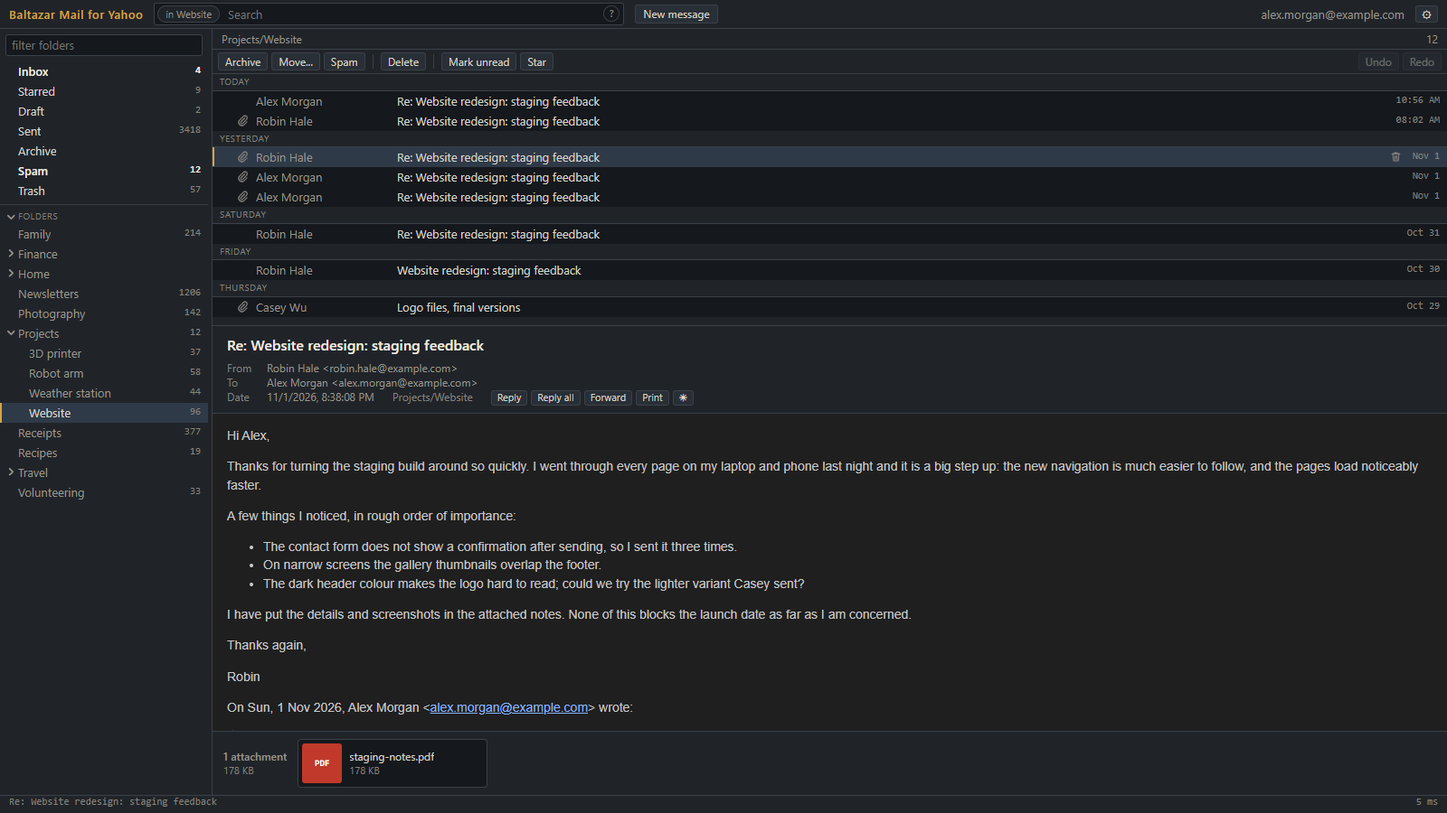
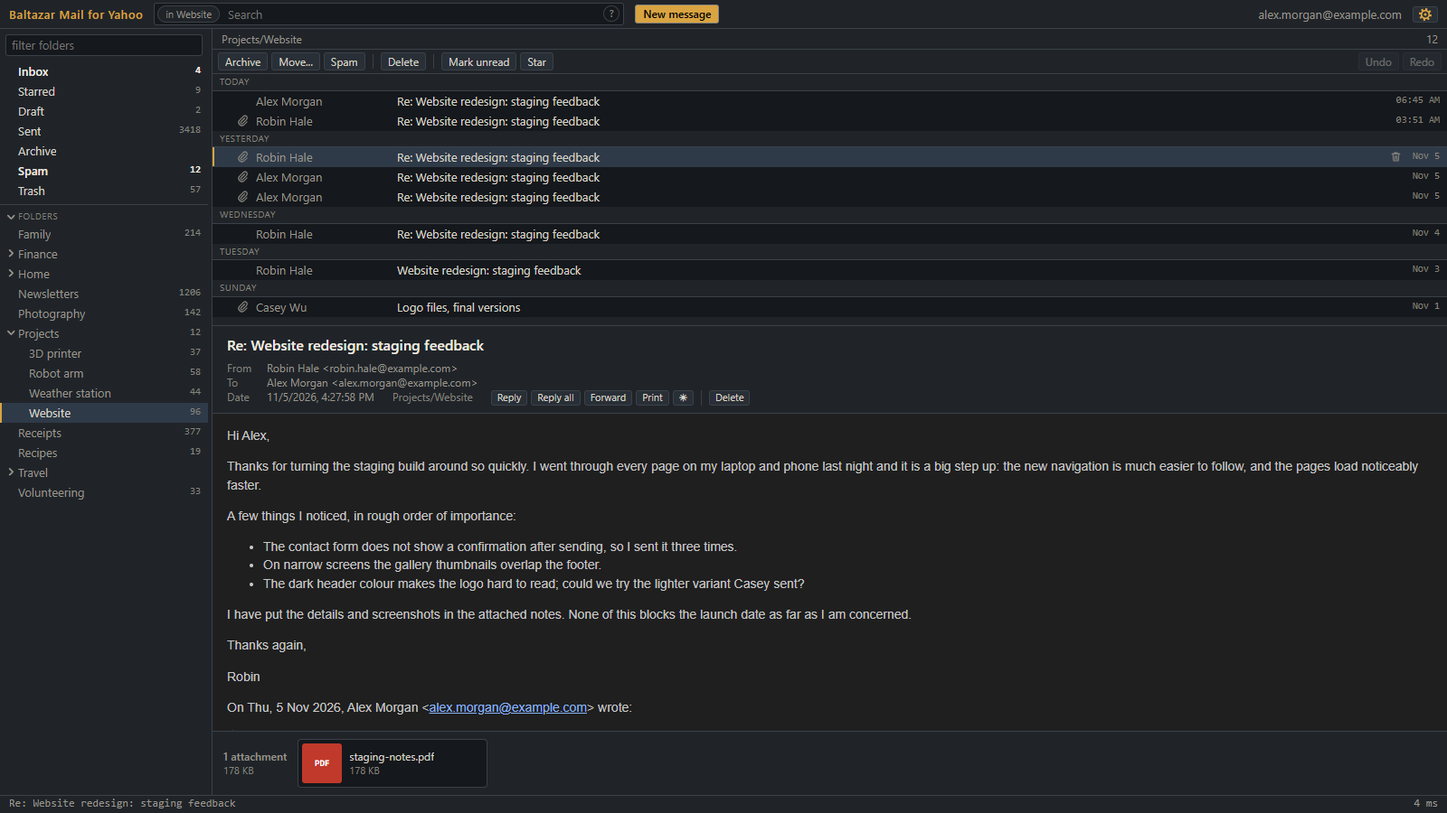
Regenerate the screenshots and store images and correct the documentation
The images show the new top bar, cog and status line. The docs now say that Starred and cross-folder search matches leave out Spam and Trash, that spreadsheets of every kind open locally, that the release check runs for any Load unpacked copy, which stored values the storage permission covers, and, for the Gmail edition, that only a copy built with a client id can sign in and that message images come from their senders.

diff --git a/README.md b/README.md
@@ -13,13 +13,13 @@ Baltazar Mail is an independent project by [Baltazar Studios](https://baltazarst
 
 ## Features
 
-- **Reading:** three-column or stacked layout with resizable panes, sixteen palettes, eight light and eight dark in a range of hues and mostly in light and dark pairs (two of them plain black and white), a contrast slider, one text size setting that scales the whole interface and the message, a zoom for the message pane alone, read or written, shown for a moment over the pane (+, - and 0, Ctrl+= / Ctrl+- / Ctrl+0 in the composer, or Ctrl+wheel over it), a row height setting, a Starred view across all folders, and remote images loaded automatically except in Spam and Trash. In a dark theme messages are darkened to match, keeping their colours' hues and leaving images alone; the ☀ button in the message header shows them in their original colours instead.
+- **Reading:** three-column or stacked layout with resizable panes, sixteen palettes, eight light and eight dark in a range of hues and mostly in light and dark pairs (two of them plain black and white), a contrast slider, one text size setting that scales the whole interface and the message, a zoom for the message pane alone, read or written, shown for a moment over the pane (+, - and 0, Ctrl+= / Ctrl+- / Ctrl+0 in the composer, or Ctrl+wheel over it), a row height setting, a Starred view across all folders but Spam and Trash, and remote images loaded automatically except in Spam and Trash. In a dark theme messages are darkened to match, keeping their colours' hues and leaving images alone; the ☀ button in the message header shows them in their original colours instead.
 - **Mailbox actions:** read/unread, star, archive, move, delete, spam and not spam, on one message or a selection (click, Shift-click for a range, Ctrl-click for single rows), with multi-level undo and redo. A trash icon beside each row's date deletes it without opening it. The reader has its own Delete button, for the open message alone; for a message in Trash it reads Undelete and moves it to Inbox without asking. Right-click a message for these and for Reply, Reply all, Forward and Find all from, with each shortcut shown.
 - **Folders:** right-click a folder to create a subfolder, rename, move or delete it (only when it and its subfolders are empty), or mark it all read; right-click Trash or Spam to empty it. The Folders heading above your own folders creates top-level folders and opens or closes the first level of subfolders; a double click opens or closes one folder. Subfolders of Inbox are shown under Inbox, as Yahoo files them.
-- **Search:** scoped to the open folder and its subfolders, with matches in other folders listed below a divider. Words must all match; `AND`, `OR`, `NOT` (or a leading `-`), parentheses, quoted phrases and the fields `from:` `to:` `subject:` `has:attachment` `is:starred` `is:read` `is:unread` `after:` `before:` refine it. The `?` in the search box explains the syntax.
+- **Search:** scoped to the open folder and its subfolders, with matches in other folders (Spam and Trash aside) listed below a divider. Words must all match; `AND`, `OR`, `NOT` (or a leading `-`), parentheses, quoted phrases and the fields `from:` `to:` `subject:` `has:attachment` `is:starred` `is:read` `is:unread` `after:` `before:` refine it. The `?` in the search box explains the syntax.
 - **Writing:** new message, reply, reply all and forward (with the original's attachments), drafts saved automatically, rich-text or plain-text editing with fonts, sizes and colours, pasted or dropped inline images, attachments, and undo-send.
 - **Address book:** built from your own Inbox and Sent headers, with autocomplete ranked by how recently you wrote to or heard from each person. Automated senders you never wrote to (noreply, notifications, bulk-mail domains) are left out of suggestions. Settings › Address book lists it with a filter and hide/restore, also in bulk.
-- **Attachments:** listed under the message and previewed in place: PDF with selectable text and zoom, Word, Excel and other spreadsheets, PowerPoint and older Office formats through Yahoo's converter, images, text and code, CSV, HTML, audio, video and ZIP listings. Anything else up to 100 KB can be read as text, or as a hex dump when it is binary.
+- **Attachments:** listed under the message and previewed in place: PDF with selectable text and zoom, Word, Excel and other spreadsheets, PowerPoint, older Word, RTF and OpenDocument text and slides through Yahoo's converter, images, text and code, CSV, HTML, audio, video and ZIP listings. Anything else up to 100 KB can be read as text, or as a hex dump when it is binary.
 - **Also:** a red dot on the tab icon and toolbar button when new mail arrives while the tab is in the background, or arrived while the browser was closed and the tab opens in the background (handy for a pinned tab), contact cards (right-click a message › About sender..., or hover an address in the message header) with the person's recent messages, each opening in its folder, printing, anything that failed shown in a bar under the top bar (with details to copy for a bug report), and all settings kept between sessions.
 
 Attachments open in place, here a two-page PDF with selectable text and zoom; photos, Office documents and spreadsheets open the same way:
@@ -38,7 +38,7 @@ All names, addresses and messages in these screenshots are invented; `node tools
 
 ### Gmail: what differs
 
-The Gmail edition has the same interface and the same features, with these differences that come from Gmail itself: Gmail's labels are the folders (a message with no label is in All Mail, and Archive moves it there); a move takes the message out of the folder it is shown in and keeps its other labels, also in Trash and Spam, and undo puts back exactly what the move changed; Spam and Trash are Gmail's; Mark all read, Empty Trash and Empty Spam work on the label; renaming a folder renames the labels nested under it. There is no document converter, so PowerPoint and older Office formats offer Download instead of a preview (PDF, Word, Excel, images, text and ZIP preview as before). Images in messages load straight from the senders' servers when the setting allows, since Gmail's API hands over the message as the sender wrote it (see [PRIVACY.md](PRIVACY.md)). Gmail's API has a quota per user (by default 6,000 units a minute, where a list of 100 messages costs about 500), so the extension paces its requests: the first address-book build reads the newest 2,000 messages of Inbox and Sent slowly in the background, in about eight minutes, leaving room for browsing. How the adapter maps Gmail onto the client is in `docs/gmail-api.md`.
+The Gmail edition has the same interface and the same features, with these differences that come from Gmail itself: Gmail's labels are the folders (a message with no label is in All Mail, and Archive moves it there); a move takes the message out of the folder it is shown in and keeps its other labels, also in Trash and Spam, and undo puts back exactly what the move changed; Spam and Trash are Gmail's; Mark all read, Empty Trash and Empty Spam work on the label; renaming a folder renames the labels nested under it. There is no document converter, so PowerPoint, Keynote, older Word, RTF and OpenDocument text and slides offer Download (and, up to 100 KB, a text or hex view) instead of a preview (PDF, Word .docx, spreadsheets of every kind, images, text and ZIP preview as before). Images in messages load straight from the senders' servers when the setting allows, since Gmail's API hands over the message as the sender wrote it (see [PRIVACY.md](PRIVACY.md)). Gmail's API has a quota per user (by default 6,000 units a minute, where a list of 100 messages costs about 500), so the extension paces its requests: the first address-book build reads the newest 2,000 messages of each of Inbox and Sent slowly in the background, in about eight minutes, leaving room for browsing. How the adapter maps Gmail onto the client is in `docs/gmail-api.md`.
 
 ## Install
 
@@ -47,16 +47,16 @@ Neither edition is in a browser store; both install from a release ZIP in Chrome
 1. Download `baltazar-mail-yahoo-<version>.zip` (Yahoo) or `baltazar-mail-gmail-<version>.zip` (Gmail) from the [latest release](https://github.com/gdevic/baltazar-mail-2/releases/latest) and unzip it into a folder you will keep; it contains one folder, `baltazar-mail-yahoo` or `baltazar-mail-gmail`.
 2. Open `chrome://extensions` (or `edge://extensions`) and turn on Developer mode.
 3. Click Load unpacked and select that folder.
-4. Yahoo: be signed in to mail.yahoo.com in the same browser profile, then click the Baltazar Mail for Yahoo toolbar icon. Gmail: click the Baltazar Mail for Gmail toolbar icon and press Sign in with Google; Google asks for the account and the permission once, and the extension renews the sign-in silently afterwards, for that account only (Sign out is in Settings; it withdraws the permission and clears the address book).
+4. Yahoo: be signed in to mail.yahoo.com in the same browser profile, then click the Baltazar Mail for Yahoo toolbar icon. Gmail: click the Baltazar Mail for Gmail toolbar icon and press Sign in with Google (for now only a copy you build yourself can sign in, see below); Google asks for the account and the permission once, and the extension renews the sign-in silently afterwards, for that account only (Sign out is in Settings; it withdraws the permission and clears the address book).
 
 A copy installed this way says in Settings when a newer release is out. To update, put the new release's files into the same folder, replacing the old ones, and click Reload on the extensions page. Windows' Extract All offers a new folder by default, so point it at the folder that contains `baltazar-mail-yahoo` (or `baltazar-mail-gmail`) and confirm replacing the files; macOS's Archive Utility never replaces files, so use `unzip -o baltazar-mail-yahoo-<version>.zip -d <that folder>` in Terminal. Loading the new release from a different folder, or removing the extension, would start over without its settings and address book. From a clone of this repository, run `node tools/build.js` and load `dist/baltazar-mail-yahoo` or `dist/baltazar-mail-gmail` the same way; after a change, build again and click Reload on the extension's card.
 
-**Gmail and Google's sign-in.** The Gmail edition's sign-in runs through an OAuth client registered with Google. A release ZIP does not carry a client id yet, so for now only a copy you build yourself can sign in; and while Google has not verified the app, its consent screen shows an "unverified app" warning and only accounts listed as test users can sign in; `docs/google-setup.md` explains how to register a client of your own for a copy you build or load yourself, and what store publication needs.
+**Gmail and Google's sign-in.** The Gmail edition's sign-in runs through an OAuth client registered with Google. A release ZIP does not carry a client id yet, so for now only a copy you build yourself can sign in; and while Google has not verified the app, its consent screen shows an "unverified app" warning and only accounts listed as test users can sign in; `docs/google-setup.md` explains how to register a client of your own for a copy you build yourself, and what store publication needs.
 
 **Microsoft Edge: keep the tab awake.** Baltazar Mail asks the browser not to discard its tab, which keeps Chrome's Memory Saver from unloading it. Edge also puts background tabs to sleep, pinned ones included, and a sleeping tab cannot check for new mail until you click it. To keep Baltazar Mail checking in Edge (and the new-mail dot working), add it to Edge's exception list once:
 
 1. Open `edge://settings/system` and find **Always keep these sites active** (older versions: "Never put these sites to sleep"). Click **Add site**.
-2. Enter `chrome-extension://<ID>/`, with the `chrome-` prefix and the trailing slash, where `<ID>` is your copy's 32-letter extension ID. Edge derives it from the folder you loaded, so it differs on each computer or folder (it stays the same when you unzip updates over the same folder). The ID is in the address bar of the Baltazar Mail tab, after `chrome-extension://`, and on `edge://extensions` with Developer mode turned on.
+2. Enter `chrome-extension://<ID>/`, with the `chrome-` prefix and the trailing slash, where `<ID>` is your copy's 32-letter extension ID. For a release ZIP, Edge derives it from the folder you loaded, so it differs on each computer or folder (it stays the same when you unzip updates over the same folder); a copy you build with a `key` in `local.json` keeps the id that key pins. The ID is in the address bar of the Baltazar Mail tab, after `chrome-extension://`, and on `edge://extensions` with Developer mode turned on.
 3. To confirm, open `edge://discards`: the Baltazar Mail tab should show that it cannot sleep.
 
 Extensions cannot add themselves to this list.
@@ -69,7 +69,7 @@ To publish a release, set the version in `VERSION`, commit, and run the Release 
 
 ## Security and privacy
 
-Each extension talks only to its mail service (Yahoo, or Google's Gmail API and sign-in), with one exception: a copy loaded with Load unpacked (a release ZIP or a clone) asks GitHub once a day whether a newer release exists (an hour later after a failed check), sending no cookies and nothing about you or your mail. They have no server, analytics or telemetry, and parse attachments in a sandbox with no access to your session. Details are in [SECURITY.md](SECURITY.md), including how to report a vulnerability, and in [PRIVACY.md](PRIVACY.md), including every host contacted, everything stored and every permission.
+Each extension talks only to its mail service (Yahoo, or Google's Gmail API and sign-in), with two exceptions: a copy loaded with Load unpacked (a release ZIP or a clone) asks GitHub once a day whether a newer release exists (an hour later after a failed check), sending no cookies and nothing about you or your mail; and in the Gmail edition, images in messages load from their senders' servers when the setting allows (by default everywhere but Spam and Trash). They have no server, analytics or telemetry, and parse attachments in a sandbox with no access to your session. Details are in [SECURITY.md](SECURITY.md), including how to report a vulnerability, and in [PRIVACY.md](PRIVACY.md), including every host contacted, everything stored and every permission.
 
 ## License
 

diff --git a/store/LISTING-gmail.md b/store/LISTING-gmail.md
@@ -1,6 +1,6 @@
 # Baltazar Mail for Gmail: submission kit
 
-Everything to paste into a store listing for Baltazar Mail for Gmail. Neither edition of this project is published in a store; this page is ready for when one is. Upload `baltazar-mail-gmail-<version>-store.zip` from GitHub Releases as the package: the built extension with `manifest.json` at the top level. Before a store submission, Google's OAuth verification for the restricted Gmail scope must be complete (see `docs/google-setup.md`): without it, the consent screen warns and only test users can sign in, which a store reviewer cannot.
+Everything to paste into a store listing for Baltazar Mail for Gmail. Neither edition of this project is published in a store; this page is ready for when one is. The package is the built extension with `manifest.json` at the top level; build it with the project's client id in `gmail/local.json` (`node tools/build.js gmail --store`, then zip the contents of `dist/baltazar-mail-gmail`), since the release's `-store.zip` carries only a placeholder client id. Before a store submission, Google's OAuth verification for the restricted Gmail scope must be complete (see `docs/google-setup.md`): without it, the consent screen warns and only test users can sign in, which a store reviewer cannot.
 
 ## Account
 
@@ -26,7 +26,7 @@ Single purpose description:
 Permission justifications:
 
 - `identity`: Opens Google's own sign-in page in a window when the user clicks Sign in with Google, and receives the access token Google answers with. The extension never sees a password. The token is renewed silently while the browser keeps the user's Google session, and Sign out in Settings revokes it.
-- `storage`: Keeps the user's settings (layout, theme and contrast, sizes, fonts, intervals) and the time of the last release check on this computer, and, for the browser session only, the Google access token, so the extension does not ask Google for every request, and a message being printed, until the print page has read it.
+- `storage`: Keeps the user's settings (layout, theme and contrast, sizes, fonts, intervals), the time of the last release check, the format of drafts saved here, when the mail tab was last looked at (for the new-mail dot) and, until Sign out, the address of the Google account signed in, so a silent renewal asks for that account only; and, for the browser session only, the Google access token, so the extension does not ask Google for every request, and a message being printed, until the print page has read it.
 - Host permission `https://gmail.googleapis.com/*`: All mailbox operations (labels, message lists, search, reading, attachments, moving, deleting, drafts and sending) go to the Gmail API on this host, with the token from the user's sign-in.
 - Host permission `https://oauth2.googleapis.com/*`: Revoking the token when the user signs out.
 - OAuth scope `https://mail.google.com/`: The extension reads, writes and sends mail, and permanently deletes messages when the user empties Trash or Spam or deletes a message already in Trash; the narrower Gmail scopes do not allow permanent deletion.
@@ -37,7 +37,7 @@ Data usage, what the extension handles (recommended declarations; all of it stay
 
 - Personal communications: email messages and attachments, fetched from Gmail when the user opens them and shown on screen; not stored.
 - Personally identifiable information: names and email addresses from the user's own Inbox and Sent headers, kept in a local address book for suggestions while writing.
-- Authentication information: the Google access token, kept in the browser's session storage and cleared when the browser closes.
+- Authentication information: the Google access token, kept in the browser's session storage and cleared when the browser closes, and the address of the Google account signed in, kept in local storage until Sign out.
 
 Certify: data is not sold, not used for purposes unrelated to the single purpose, and not used for creditworthiness or lending. No analytics, telemetry or advertising.
 
@@ -55,11 +55,11 @@ Description:
 
 > Baltazar Mail for Gmail is a fast, clean, ad-free way to read and write your Gmail. It opens in its own tab; click Sign in with Google once, and Google's own page asks which account and what permission, then the extension keeps you signed in while the browser does.
 >
-> Reading: a three-column or stacked layout with resizable panes, sixteen light and dark palettes in different hues with a contrast slider, an adjustable text size, and a dark reading pane that darkens messages to match while keeping their hues and leaving images untouched. Your labels are the folders, nested as you named them, and a Starred view collects starred mail from every one of them.
+> Reading: a three-column or stacked layout with resizable panes, sixteen light and dark palettes in different hues with a contrast slider, an adjustable text size, and a dark reading pane that darkens messages to match while keeping their hues and leaving images untouched. Your labels are the folders, nested as you named them, and a Starred view collects starred mail from every one of them but Spam and Trash.
 >
 > Mailbox: mark messages read or unread, star, archive, move, delete or report them as spam, one at a time or as a selection, with multi-level undo and redo. Labels can be created, renamed, moved and nested, empty ones deleted, and Trash and Spam emptied, all from a right-click menu.
 >
-> Search: limited to the open label and the ones nested under it, with matches elsewhere listed below, and the operators you know from Gmail to narrow it down.
+> Search: limited to the open label and the ones nested under it, with matches elsewhere listed below, and simple operators written as in Gmail (from:, to:, subject:, has:attachment, is:starred, dates) to narrow it down.
 >
 > Writing: new messages, replies that keep their thread, and forwards that keep the original's attachments, rich or plain text, inline images, automatic drafts and undo-send. Address suggestions come from your own Inbox and Sent, with automated senders left out.
 >
@@ -71,7 +71,7 @@ Description:
 
 Logo, promotional tiles and screenshots: to be regenerated for the Gmail edition (`tools/screenshots.js` draws the Yahoo edition).
 
-Search terms (7 terms, 15 words): gmail; gmail client; email client; webmail; ad-free email; dark mode email; pdf attachment viewer
+Search terms (7 terms, 14 words): gmail; gmail client; email client; webmail; ad-free email; dark mode email; pdf attachment viewer
 
 ## Notes for certification
 
@@ -79,6 +79,6 @@ Search terms (7 terms, 15 words): gmail; gmail client; email client; webmail; ad
 >
 > How it works: the extension uses the Gmail API (gmail.googleapis.com) with an OAuth 2.0 token obtained through chrome.identity's web auth flow from Google's own sign-in page; it never sees or stores the password. The token lives in session storage and is renewed silently; the extension never opens Google's window except when the sign-in button is clicked.
 >
-> No remote code. No analytics or third-party services: an install from this store talks only to Google. (The GitHub release build, installed with Load unpacked, also checks GitHub once a day for a newer version; that check is switched off for store installs.) Images embedded in messages load from the senders' own servers when the user's setting allows, which the privacy policy explains.
+> No remote code. No analytics or third-party services: an install from this store talks only to Google, apart from images in messages, which load from the senders' own servers when the user's setting allows, as the privacy policy explains. (The GitHub release build, installed with Load unpacked, also checks GitHub once a day for a newer version; that check is switched off for store installs.)
 >
 > Attachments are parsed by bundled open-source libraries (PDF.js, docx-preview, SheetJS, JSZip, DOMPurify) inside a manifest sandbox page with an opaque origin and no extension APIs. Source, security notes and a privacy policy: https://github.com/gdevic/baltazar-mail-2

diff --git a/store/LISTING-yahoo.md b/store/LISTING-yahoo.md
@@ -25,7 +25,7 @@ Single purpose description:
 
 Permission justifications:
 
-- `storage`: Keeps the user's settings (layout, theme and contrast, sizes, fonts, intervals) and the time of the last release check on this computer, and, for the browser session only, the Yahoo session values that Yahoo's own web page uses, so the extension does not reload Yahoo's page for every request, and a message being printed, until the print page has read it.
+- `storage`: Keeps the user's settings (layout, theme and contrast, sizes, fonts, intervals) the time of the last release check, the format of drafts saved here and when the mail tab was last looked at (for the new-mail dot) on this computer, and, for the browser session only, the Yahoo session values that Yahoo's own web page uses, so the extension does not reload Yahoo's page for every request, and a message being printed, until the print page has read it.
 - `declarativeNetRequest`: Yahoo's mail servers accept requests only when they come from mail.yahoo.com. One rule, registered by the extension at start-up and shipped in its code, sets the Origin and Referer headers to https://mail.yahoo.com on the extension's own requests to Yahoo's mail hosts. The rule is limited to requests the extension itself initiates (initiatorDomains is the extension's own ID), to XHR/fetch requests only, and to mail.yahoo.com and its subdomains. It changes nothing on any web page the user visits.
 - Host permission `https://mail.yahoo.com/*`: All mailbox operations (folders, message lists, search, reading, moving, deleting, drafts and sending) go to Yahoo's mail API on this host, with the user's existing Yahoo sign-in.
 - Host permission `https://*.mail.yahoo.com/*`: Yahoo serves message source (used to show attachments), attachment thumbnails and images embedded in messages from subdomains of mail.yahoo.com (apis.mail.yahoo.com, cloud-apis.mail.yahoo.com).
@@ -54,7 +54,7 @@ Description:
 
 > Baltazar Mail for Yahoo is a fast, clean, ad-free way to read and write your Yahoo Mail. It opens in its own tab and uses the Yahoo sign-in you already have in the browser, so there is nothing to set up: sign in to mail.yahoo.com once, then click the Baltazar Mail button.
 >
-> Reading: a three-column or stacked layout with resizable panes, sixteen light and dark palettes in different hues with a contrast slider, an adjustable text size, and a dark reading pane that darkens messages to match while keeping their hues and leaving images untouched. A Starred view collects flagged mail from every folder.
+> Reading: a three-column or stacked layout with resizable panes, sixteen light and dark palettes in different hues with a contrast slider, an adjustable text size, and a dark reading pane that darkens messages to match while keeping their hues and leaving images untouched. A Starred view collects flagged mail from every folder but Spam and Trash.
 >
 > Mailbox: mark messages read or unread, star, archive, move, delete or report them as spam, one at a time or as a selection, with multi-level undo and redo. Folders can be created, renamed, moved and nested, empty ones deleted, and Trash and Spam emptied, all from a right-click menu.
 >
@@ -82,7 +82,7 @@ Search terms (7 terms, 16 words): yahoo mail; yahoo mail client; email client; w
 
 > No test account is included. Baltazar Mail for Yahoo works with any Yahoo Mail account, and the reviewer's own or any existing test account can be used. A shared account cannot be provided reliably: Yahoo requires every new account to be verified with a personal mobile number (virtual numbers are rejected), and it challenges sign-ins from an unfamiliar computer with a code sent to that phone, so a reviewer could be locked out of a shared account. If access is still needed, please ask through Partner Center and it will be arranged promptly.
 >
-> To test: in the same browser profile, sign in to https://mail.yahoo.com with any Yahoo account, then click the Baltazar Mail for Yahoo toolbar button. The extension opens its own tab with the mailbox. Things to try: open a folder and a message, search (the ? next to the search box explains the syntax), open an attachment from the strip under a message, write a message to yourself with New message, and open Settings with the gear button. Nothing is changed in the account unless the reviewer moves, deletes or sends mail.
+> To test: in the same browser profile, sign in to https://mail.yahoo.com with any Yahoo account, then click the Baltazar Mail for Yahoo toolbar button. The extension opens its own tab with the mailbox. Things to try: open a folder and a message, search (the ? at the right end of the search box explains the syntax), open an attachment from the strip under a message, write a message to yourself with New message, and open Settings with the gear button. Nothing is changed in the account unless the reviewer moves, deletes or sends mail.
 >
 > How it works: the extension calls the same web API that Yahoo's own mail page uses, with the user's existing Yahoo sign-in; it never sees or stores the password. Yahoo's servers accept those calls only when they come from mail.yahoo.com, so a single declarativeNetRequest session rule sets Origin and Referer to https://mail.yahoo.com, limited to requests initiated by this extension (initiatorDomains), XHR/fetch only, on mail.yahoo.com and its subdomains.
 >

diff --git a/PRIVACY.md b/PRIVACY.md
@@ -1,14 +1,14 @@
 # Privacy
 
-Baltazar Mail (for Yahoo Mail) and Baltazar Mail for Gmail are browser extensions that show your mail. They have no server, no account of their own, no analytics and no telemetry. Their author receives nothing about you or your mail. The two extensions share their code and differ only in the mail service they talk to; this page covers both, and says where they differ.
+Baltazar Mail for Yahoo and Baltazar Mail for Gmail are browser extensions that show your mail. They have no server, no account of their own, no analytics and no telemetry. Their author receives nothing about you or your mail. The two extensions share their code and differ only in the mail service they talk to; this page covers both, and says where they differ.
 
 ## Where your data goes
 
-Each extension talks to its mail service and, when installed from a release ZIP, to GitHub for one thing:
+Each extension talks to its mail service and, when loaded with Load unpacked (a release ZIP or a copy built from the source), to GitHub for one thing:
 
 | Host | Used for |
 |---|---|
-| `api.github.com` (both) | only for a copy installed from a release ZIP (Load unpacked), which cannot update itself: once a day, a request for the latest release number of this project, so Settings can say when an update is available. It carries no cookies, no account or mail data and no identifier; GitHub sees only what any web request shows (IP address and browser). The answer is used only for the version comparison; nothing is downloaded or installed. An install from a browser store is updated by the browser and never contacts GitHub |
+| `api.github.com` (both) | only for a copy loaded with Load unpacked (a release ZIP or a copy built from the source), which cannot update itself: once a day, a request for the latest release number of this project, so Settings can say when an update is available. It carries no cookies, no account or mail data and no identifier; GitHub sees only what any web request shows (IP address and browser). The answer is used only for the version comparison; nothing is downloaded or installed. An install from a browser store is updated by the browser and never contacts GitHub |
 
 Baltazar Mail for Yahoo, using the Yahoo sign-in already in your browser:
 
@@ -36,7 +36,7 @@ The extension's Content Security Policy (in its `manifest.json`) makes the brows
 
 | Data | Where | Why |
 |---|---|---|
-| Settings: layout, theme, palettes and contrast, text and row size, pane sizes, expanded folders, writing font, size and HTML or plain text, when images load, whether dark mode shows messages in their original colours, and the new-mail check, mark-read and undo-send intervals | the extension's local storage | so your choices persist |
+| Settings: layout, theme, palettes and contrast, text and row size, the message zoom, pane sizes, expanded folders, writing font, size and HTML or plain text, when images load, whether dark mode shows messages in their original colours, and the new-mail check, mark-read and undo-send intervals | the extension's local storage | so your choices persist |
 | When you last looked at the mail tab | the extension's local storage | so a tab that opens in the background shows the new-mail dot for mail that arrived while the browser was closed |
 | The latest release number and when it was checked | the extension's local storage | to ask GitHub once a day, or an hour later after a failed check |
 | For each draft saved here, whether it was written in HTML or plain text (keyed by the draft's id, removed when it is sent or discarded, at most 200 kept) | the extension's local storage | to reopen the draft in the same format |
